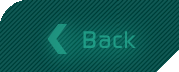
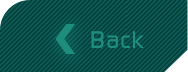
Update back button

diff --git a/graphics.js b/graphics.js
@@ -275,9 +275,11 @@ class Display {
             this.lacerda.prevState();
             this.renderScreen();
         });
+        /* XXX not ready to delete, might need it...
         this.buttons['backbutton'].shadowColor('#16d3ab');
         this.buttons['backbutton'].shadowBlur(6);
         this.buttons['backbutton'].shadowOffset({ x: 1.5, y: 2.0 });
-        this.buttons['backbutton'].shadowOpacity(0.2);
+        this.buttons['backbutton'].shadowOpacity(0.18);
+        */
     }
 }
